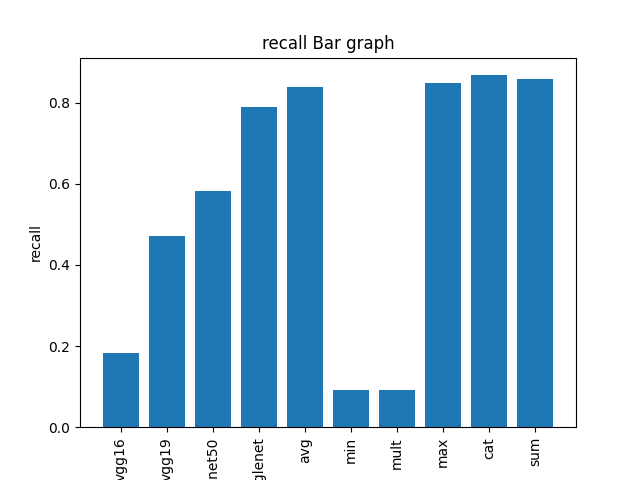
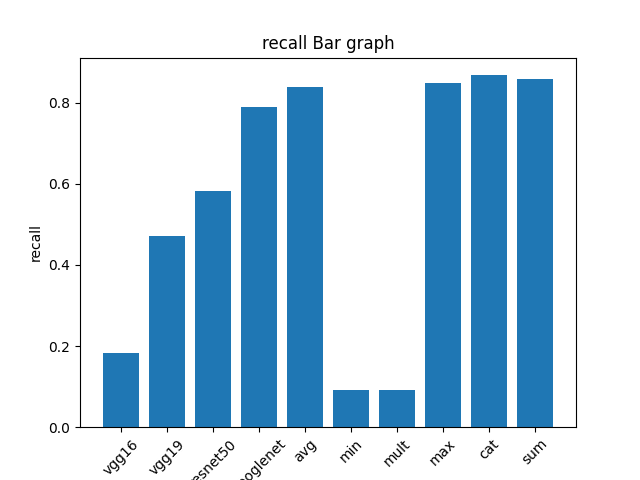
rotated catagory labels to 45 deg

diff --git a/dcnn/metrics_agg.py b/dcnn/metrics_agg.py
@@ -16,7 +16,7 @@ def create_bar(dcnns, fusions,  col, path="metrics"):
         val.append(m)
 
     plt.bar(cat, val)
-    plt.xticks(rotation=90)
+    plt.xticks(rotation=45)
     plt.xlabel('Models')
     plt.ylabel(f"{col}")
     plt.title(f"{col} Bar graph")
